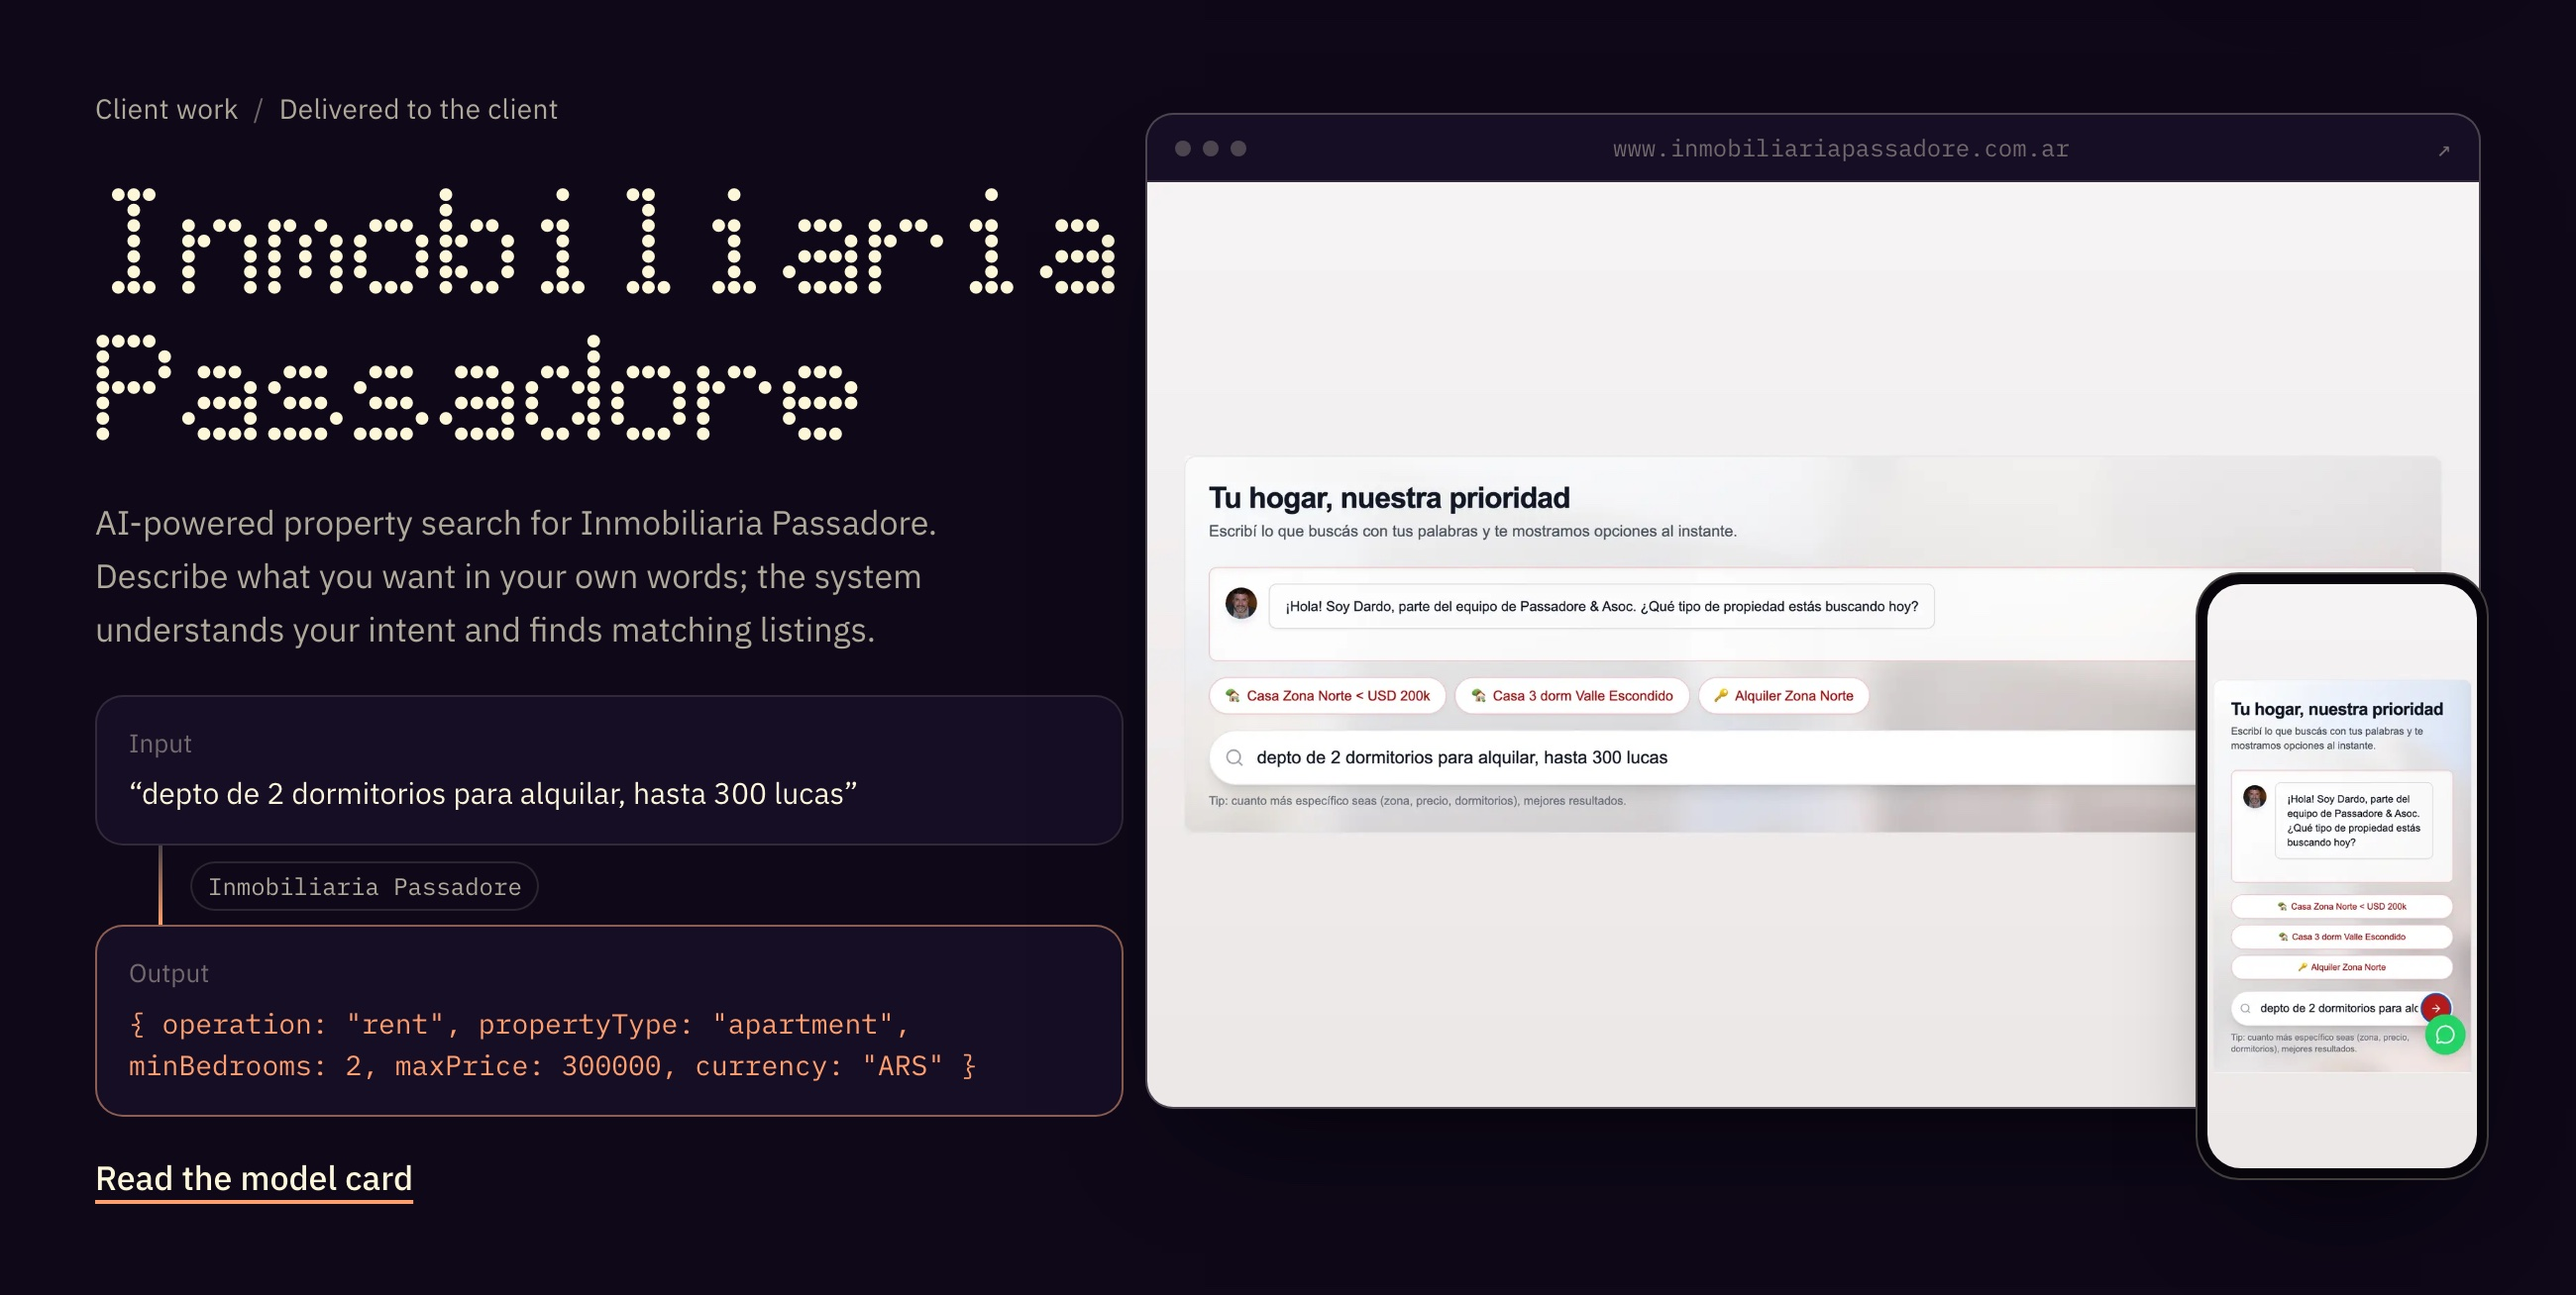
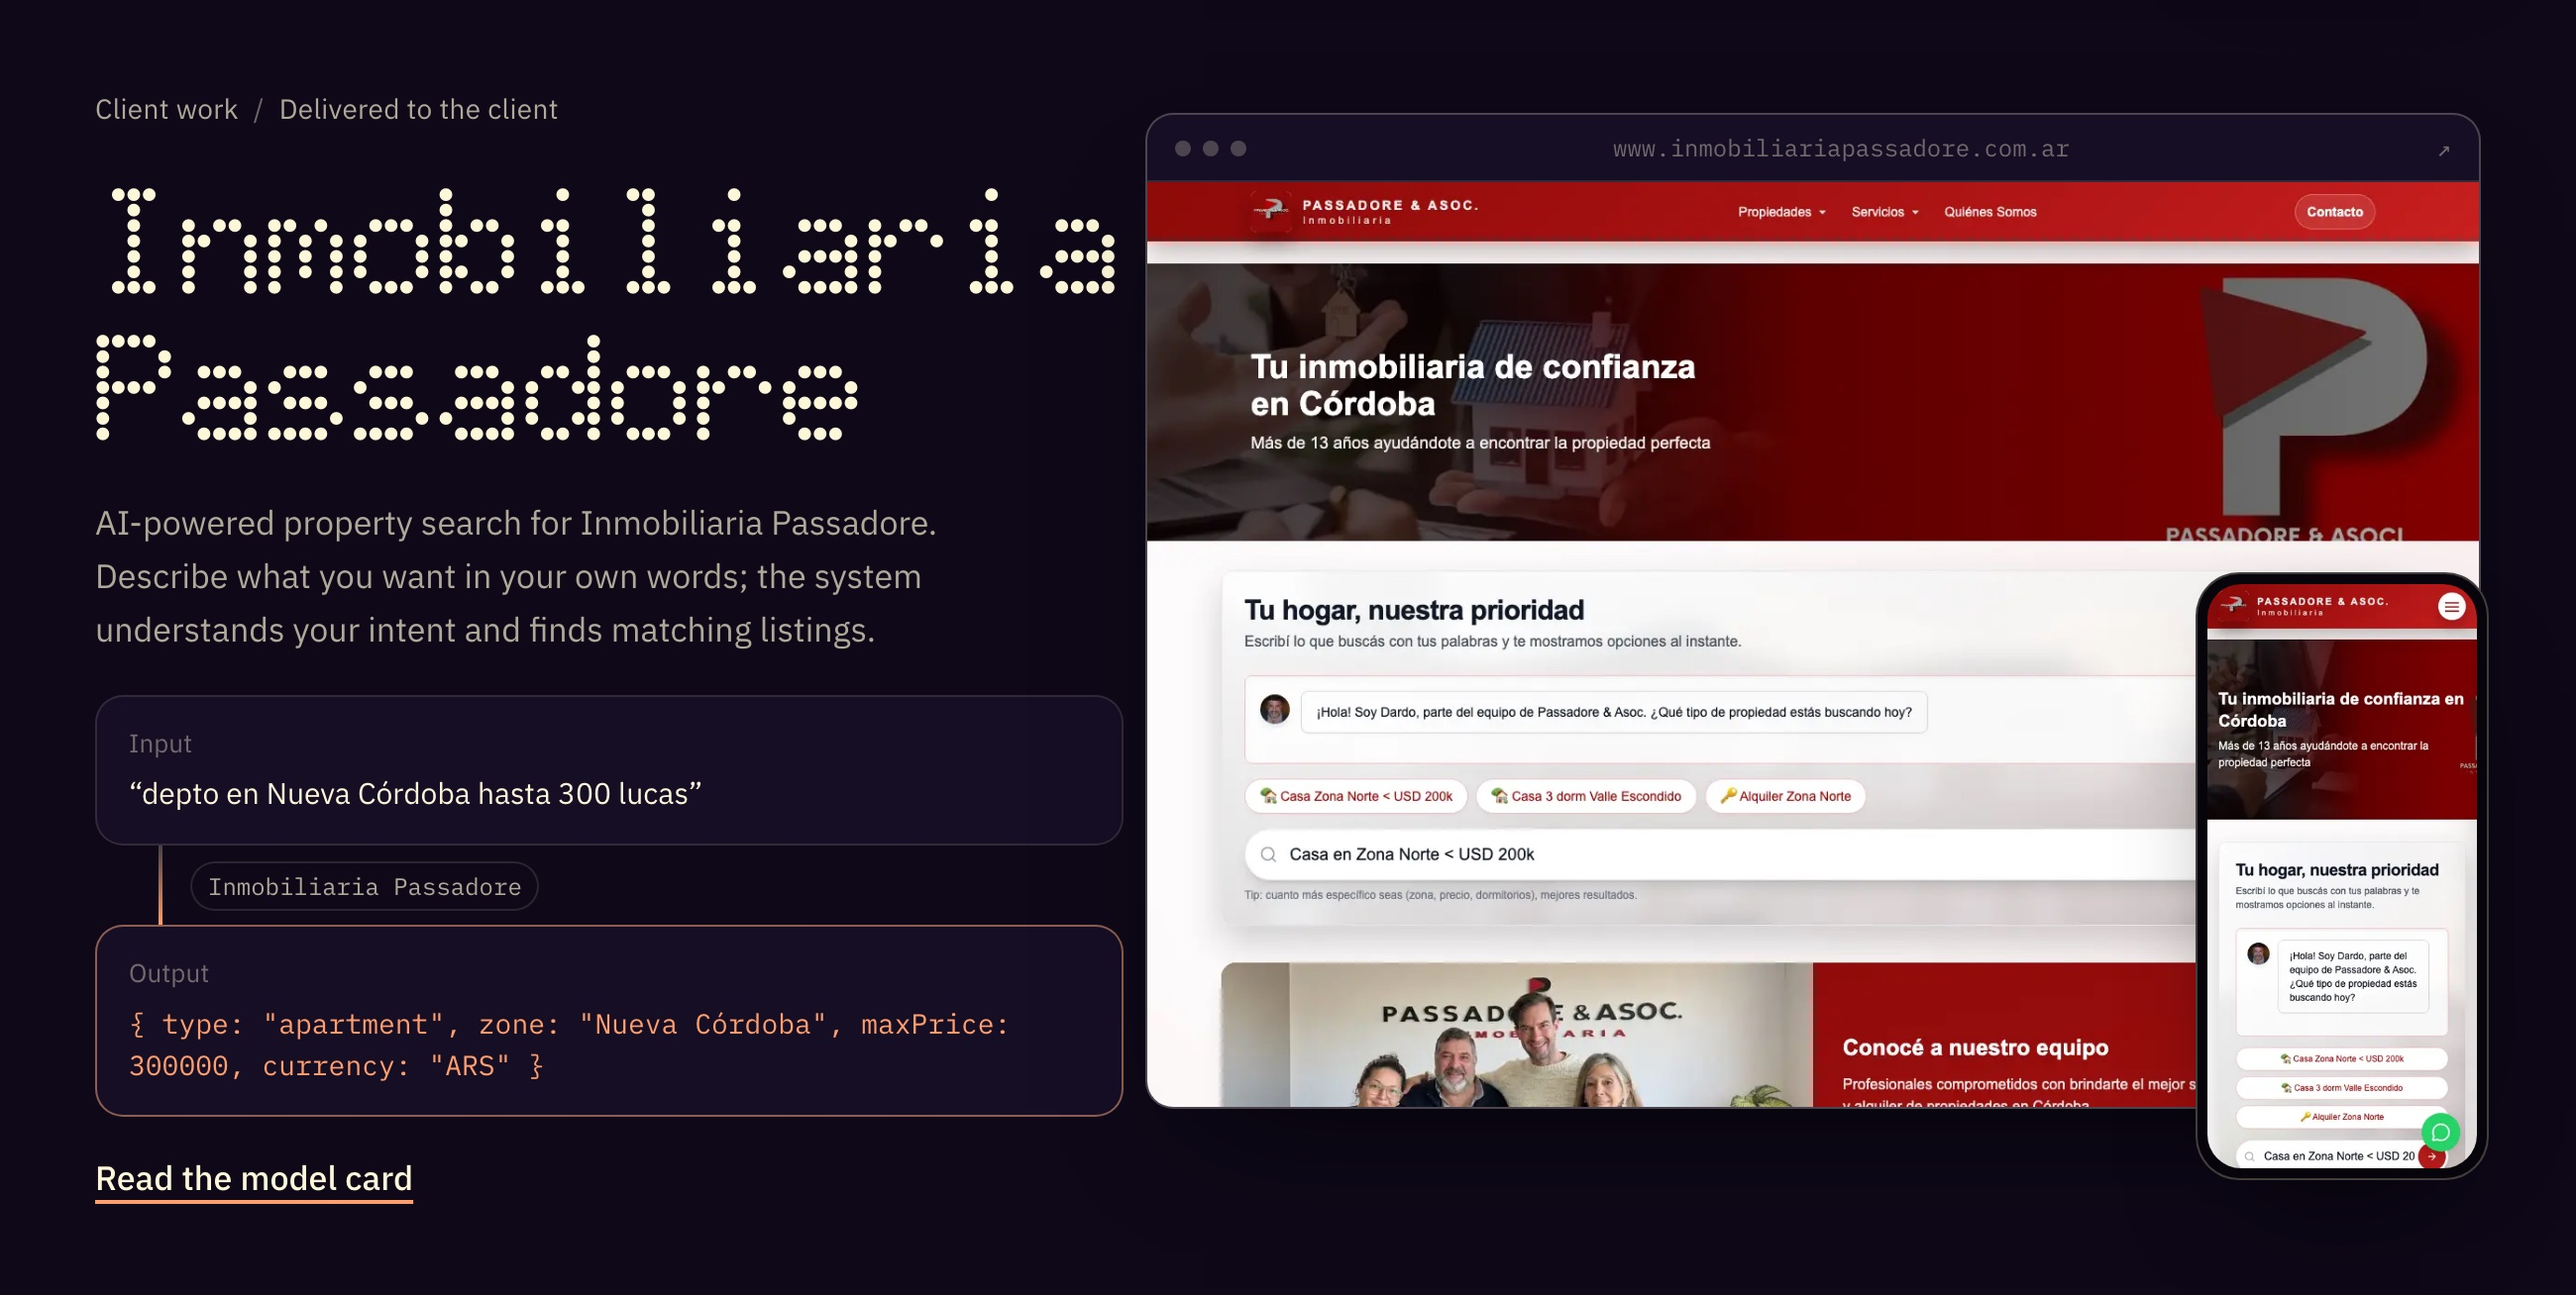
Restore the Passadore example and show Lessio Stock on lessioco.com.ar

Changed region(s): [[0.4362, 0.1223, 0.9658, 0.9174], [0.0623, 0.7645, 0.3738, 0.8257], [0.0935, 0.581, 0.3115, 0.6422]]

diff --git a/README.md b/README.md
@@ -18,7 +18,7 @@ Every project, described by one real input and the output it produces.
 
 **[Try Partidito](https://www.partidito.com.ar)** or read its [model card](https://adiazgallici.vercel.app/projects/partidito).
 
-[![Inmobiliaria Passadore. Input: “depto de 2 dormitorios para alquilar, hasta 300 lucas”. Output: structured search filters for a two-bedroom apartment to rent, up to 300,000 pesos.](assets/passadore.jpg)](https://adiazgallici.vercel.app/projects/passadore)
+[![Inmobiliaria Passadore. Input: “depto en Nueva Córdoba hasta 300 lucas”. Output: structured search filters for an apartment in Nueva Córdoba up to 300,000 pesos.](assets/passadore.jpg)](https://adiazgallici.vercel.app/projects/passadore)
 
 **[Visit the agency](https://www.inmobiliariapassadore.com.ar)** or read the [model card](https://adiazgallici.vercel.app/projects/passadore).
 
